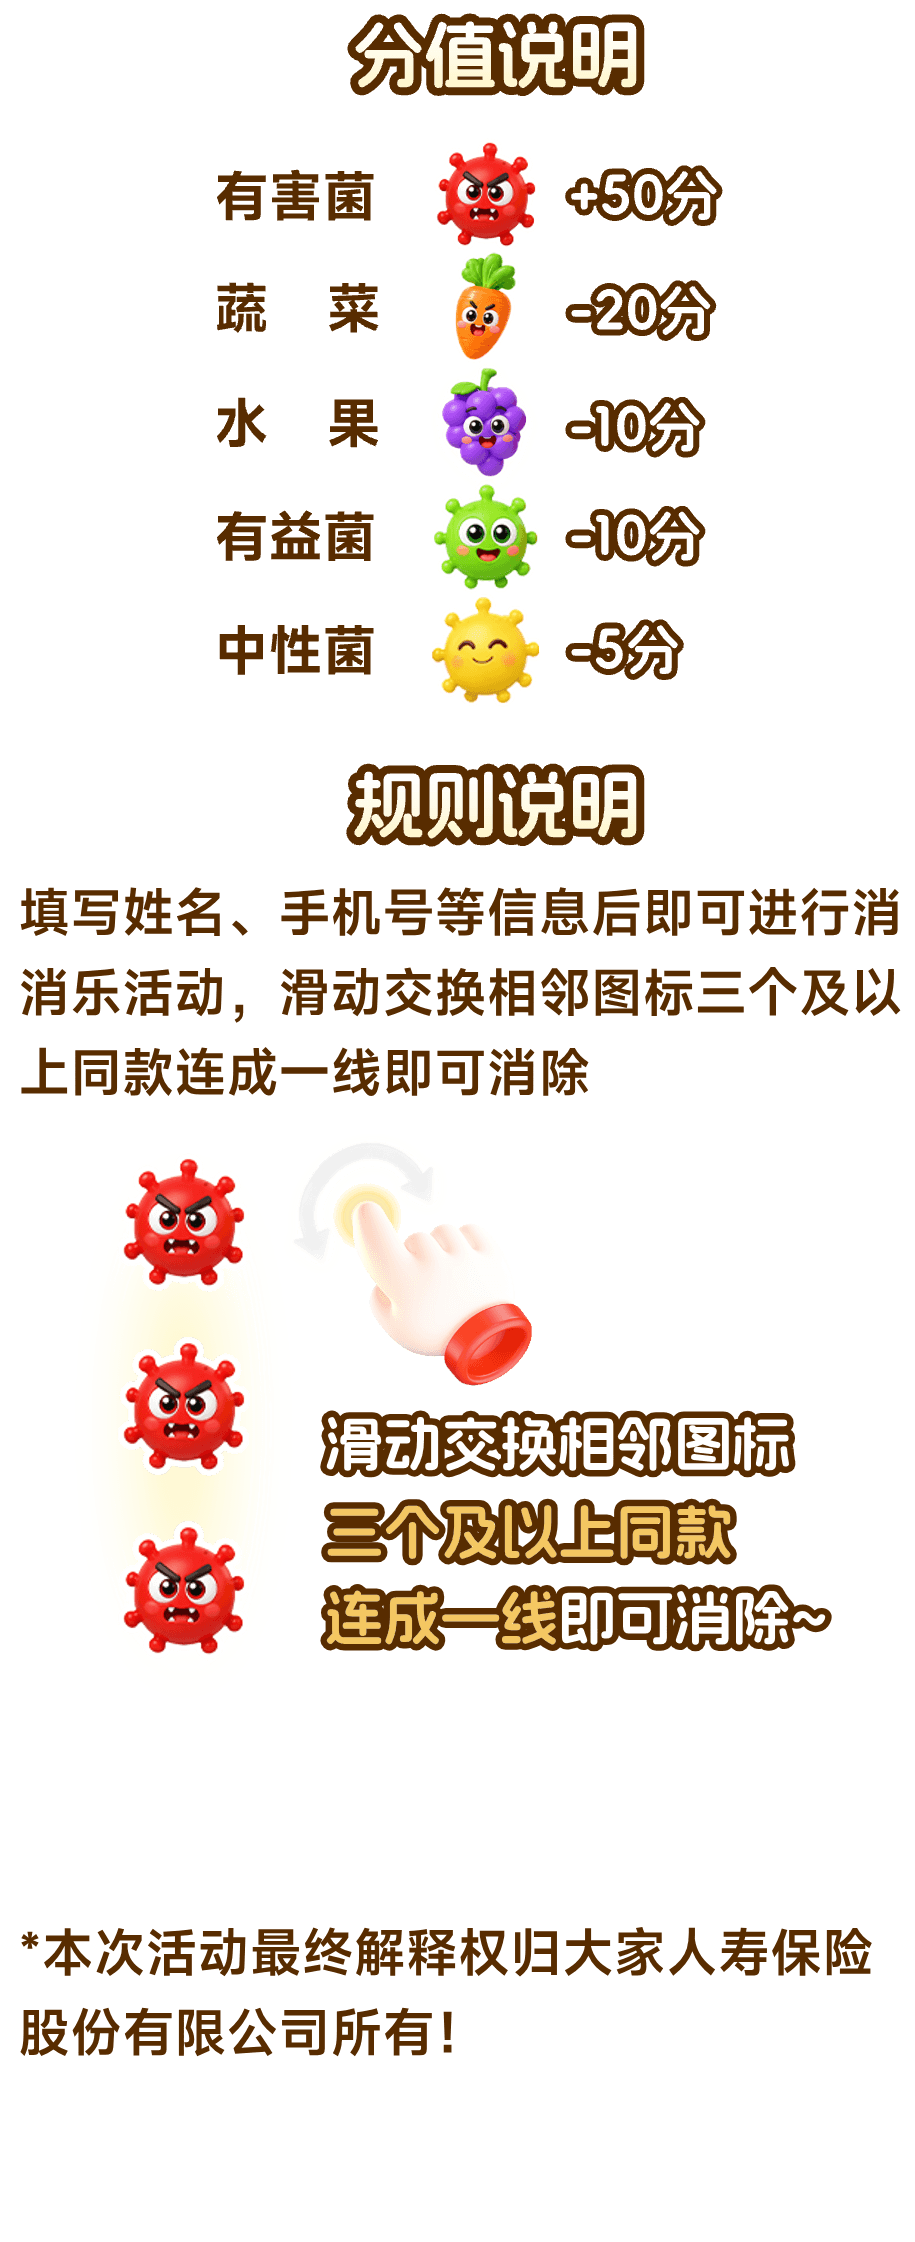
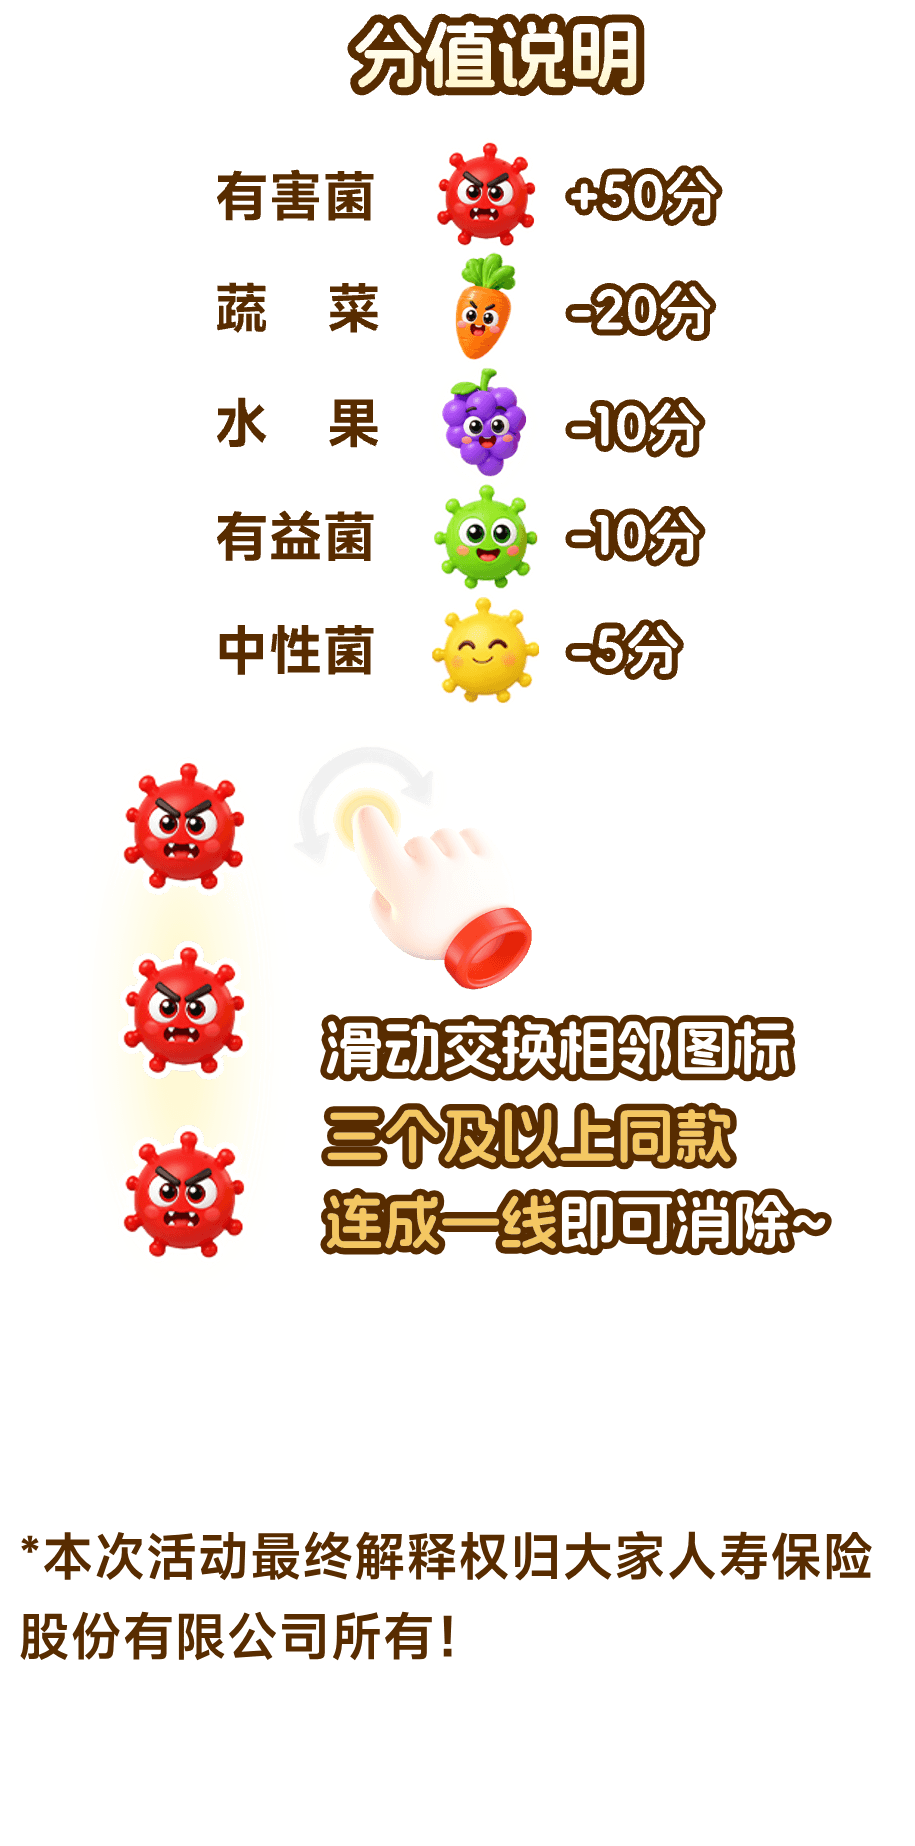
Remove the info tab and rules paragraph, and pin the result disclaimer to the bottom.

Changed region(s): [[0.0306, 0.0, 0.9792, 0.7411], [0.0, 0.8337, 0.9486, 0.9263]]

diff --git a/css/game.css b/css/game.css
@@ -143,23 +143,24 @@ button { border: 0; padding: 0; background: transparent; cursor: pointer; }
 .overlay { z-index: 6; overflow: auto; background: rgba(0, 0, 0, .45); }
 .howto-go { display: block; width: 4.39rem; height: auto; }
 .result {
-  background: url("../assets/static/image/result_bg.353ba11c.jpg") center top / 100vw auto no-repeat #7ec8f0;
-  padding: .9rem .3rem 1.2rem; text-align: center;
+  display: flex; flex-direction: column; align-items: center; min-height: 100%;
+  background: url("../assets/static/image/result_bg.353ba11c.jpg") center top / 100% auto no-repeat #7ec8f0;
+  padding: .7rem .3rem .2rem; text-align: center;
 }
-.result-title { margin: .2rem auto .2rem; background-size: cover; background-position: center; }
+.result-title { margin: .08rem auto .04rem; background-size: cover; background-position: center; }
 .result-title.win { width: 4rem; height: 2.74rem; background-image: url("../assets/static/image/win.ffb8c0bd.png"); }
 .result-title.lose { width: 5.65rem; height: 2.11rem; background-image: url("../assets/static/image/lose.bf8e3153.png"); }
 .result-title.win-all { width: 6.15rem; height: 1.72rem; background-image: url("../assets/static/image/win_all.d7ec65fa.png"); }
 .book {
-  width: 6.2rem; height: 3.4rem; margin: .16rem auto 0; position: relative;
+  width: 6.2rem; height: 3.4rem; margin: .04rem auto 0; position: relative;
   background: url("../assets/static/image/book_wrapper_bg.ae180b11.png") center / 100% 100% no-repeat;
 }
 .knowledge { position: absolute; left: .7rem; right: .7rem; top: .85rem; font-weight: 700; line-height: 1.35; color: #c62527; font-size: .24rem; text-align: center; }
 .knowledge p { margin: .02rem 0; }
-.manager-btn { display: block; width: 100%; margin: .12rem 0 .04rem; }
+.manager-btn { display: block; width: 100%; margin: .06rem 0 0; }
 .manager-btn img { display: block; width: 6.2rem; height: auto; margin: 0 auto; }
 .score-card {
-  width: 5.8rem; margin: .2rem auto; padding: .7rem .4rem .3rem;
+  width: 5.8rem; margin: .04rem auto 0; padding: .55rem .4rem .18rem;
   background: url("../assets/static/image/info_wrapper1_bg.a47e8f84.png") center / 100% 100% no-repeat;
   text-align: left; font-weight: 700;
 }
@@ -169,7 +170,7 @@ button { border: 0; padding: 0; background: transparent; cursor: pointer; }
 .rank-card { margin-top: .16rem; }
 .rank-card img.badge { width: 1.6rem; height: auto; display: block; margin: 0 auto .08rem; }
 .comment { font-size: .24rem; line-height: 1.4; }
-.actions { display: flex; justify-content: center; gap: .16rem; flex-wrap: wrap; margin-top: .16rem; }
+.actions { display: flex; justify-content: center; gap: .16rem; flex-wrap: wrap; margin-top: .06rem; }
 .actions img { height: 1.05rem; width: auto; }
 
 .howto, .sheet { display: flex; align-items: center; justify-content: center; flex-direction: column; }
@@ -219,6 +220,10 @@ button { border: 0; padding: 0; background: transparent; cursor: pointer; }
 .poster-wrap { padding: 1rem .4rem 1rem; text-align: center; }
 #poster-canvas { width: 4.68rem; height: auto; border-radius: .12rem; background: #fff; }
 .hint { color: #fff; font-weight: 700; }
+.result .hint {
+  margin: auto 0 0; padding-top: .12rem;
+  max-width: 6.4rem; font-size: .22rem; line-height: 1.35;
+}
 
 @keyframes zoom-in { from { opacity: .5; transform: scale(1.1); } to { opacity: 1; transform: scale(1); } }
 @keyframes slide-up { from { opacity: 0; transform: translateY(.5rem); } to { opacity: 1; transform: none; } }

diff --git a/index.html b/index.html
@@ -4,7 +4,7 @@
   <meta charset="UTF-8" />
   <meta name="viewport" content="width=device-width, user-scalable=no, initial-scale=1, maximum-scale=1, viewport-fit=cover" />
   <title>大家消消乐 肠享好时光</title>
-  <link rel="stylesheet" href="css/game.css?v=3" />
+  <link rel="stylesheet" href="css/game.css?v=4" />
 </head>
 <body>
   <div class="phone" id="phone">
@@ -17,7 +17,6 @@
     <button class="bgm-btn" data-action="bgm" type="button"><img data-bgm alt="" /></button>
     <div class="side-tabs">
       <button type="button" data-action="rules"><img src="assets/static/image/tab_rules.2280077b.png" alt="活动规则" /></button>
-      <button type="button" data-action="prize"><img src="assets/static/image/tab_prize.50b50917.png" alt="活动奖品" /></button>
     </div>
     <button class="rank-bubble" type="button" data-action="rank">
       <img src="assets/static/image/tab_rank.d5b26be7.png" alt="排行榜" />
@@ -31,7 +30,6 @@
     <button class="bgm-btn" data-action="bgm" type="button"><img data-bgm alt="" /></button>
     <div class="side-tabs">
       <button type="button" data-action="rules"><img src="assets/static/image/tab_rules.2280077b.png" alt="活动规则" /></button>
-      <button type="button" data-action="prize"><img src="assets/static/image/tab_prize.50b50917.png" alt="活动奖品" /></button>
     </div>
     <img id="round-title" class="round-title" alt="" />
     <p class="goal">请在 <b id="steps-total">8</b> 步以内消除 <b id="bad-target">28</b> 个有害菌<br />即可成功通关</p>
@@ -70,7 +68,6 @@
         <p id="result-comment" class="comment"></p>
       </div>
     </div>
-    <p class="hint">*本游戏为趣味闯关，旨在科普肠道健康知识，不作为医疗诊断依据</p>
     <div class="book" id="result-book">
       <div id="result-knowledge" class="knowledge"></div>
     </div>
@@ -81,6 +78,7 @@
       <button id="btn-poster" type="button" data-action="poster"><img src="assets/static/image/btn_share.d010945e.png" alt="分享" /></button>
       <button type="button" data-action="home"><img src="assets/static/image/btn_back_index.8a575fa8.png" alt="返回首页" /></button>
     </div>
+    <p class="hint">*本游戏为趣味闯关，旨在科普肠道健康知识，不作为医疗诊断依据</p>
   </section>
 
   <section id="howto" class="overlay howto" hidden>
@@ -124,7 +122,7 @@
 
   <div id="toast" class="toast" hidden></div>
   </div>
-  <script src="js/engine.js?v=3"></script>
-  <script src="js/app.js?v=3"></script>
+  <script src="js/engine.js?v=4"></script>
+  <script src="js/app.js?v=4"></script>
 </body>
 </html>

diff --git a/js/app.js b/js/app.js
@@ -224,7 +224,7 @@ function renderRank() {
 
 function renderModal() {
   const map = {
-    rules: { title: IMG + "tab_rules.2280077b.png", body: IMG + "rules.d30d95b1.png", frame: IMG + "bg_modal2.f6c41725.png" },
+    rules: { title: IMG + "tab_rules.2280077b.png", body: IMG + "rules.d30d95b1.png?v=4", frame: IMG + "bg_modal2.f6c41725.png" },
     prize: { title: IMG + "tab_prize.50b50917.png", body: IMG + "tab_prize.50b50917.png", frame: IMG + "bg_modal1.90a830b4.png" },
     protocol: { title: IMG + "title_rules.d6d6c7d2.png", body: IMG + "protocol.e3577188.png", frame: IMG + "bg_modal3.3d7bc8c7.png" },
   };
